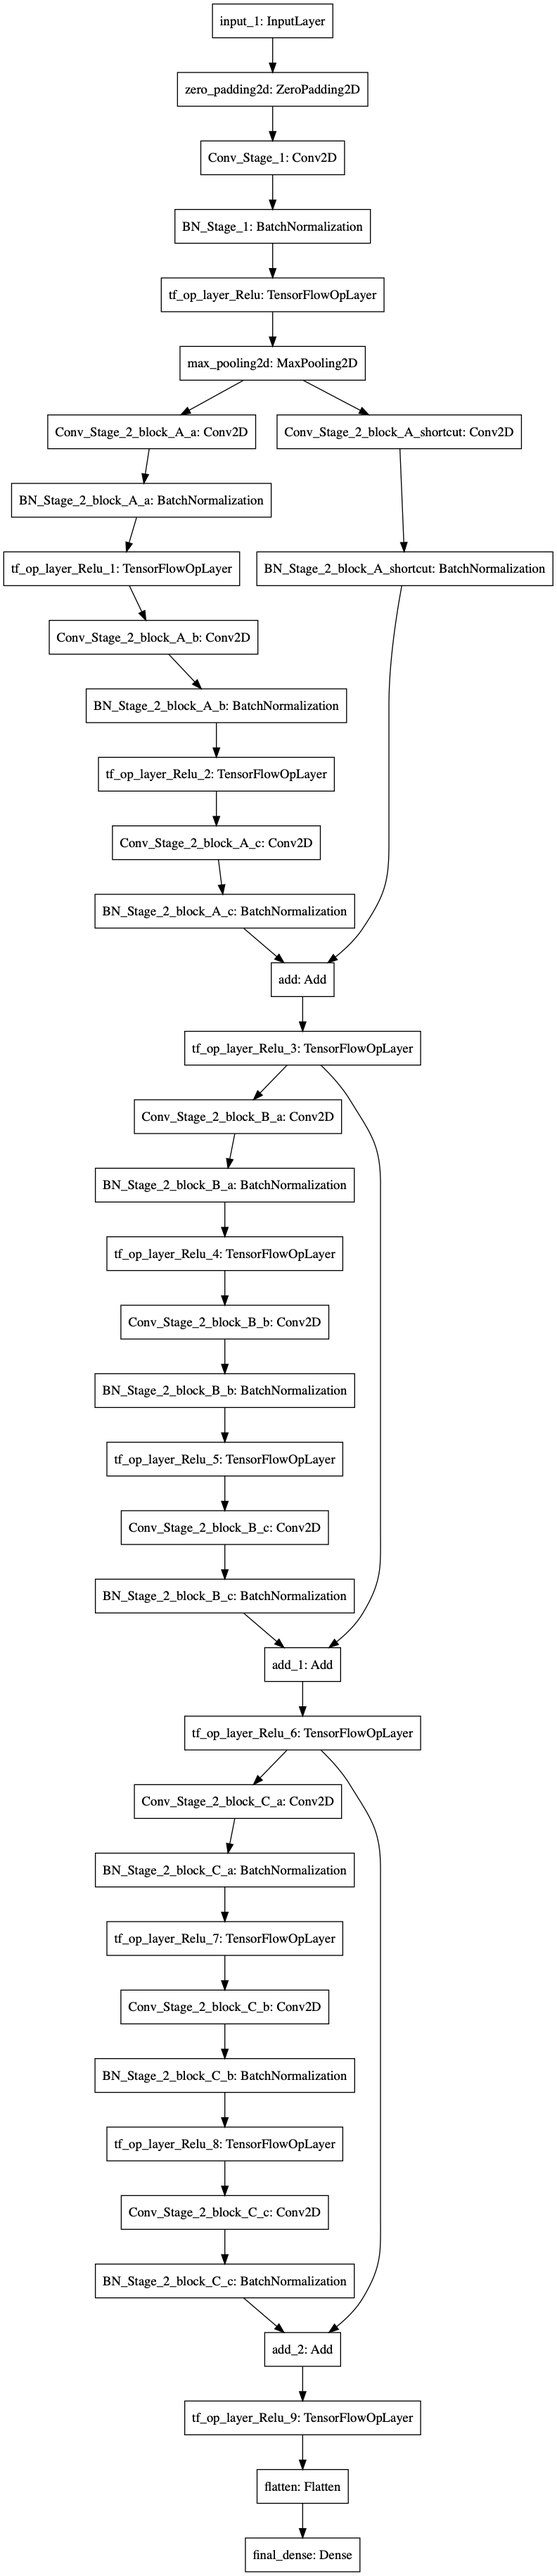
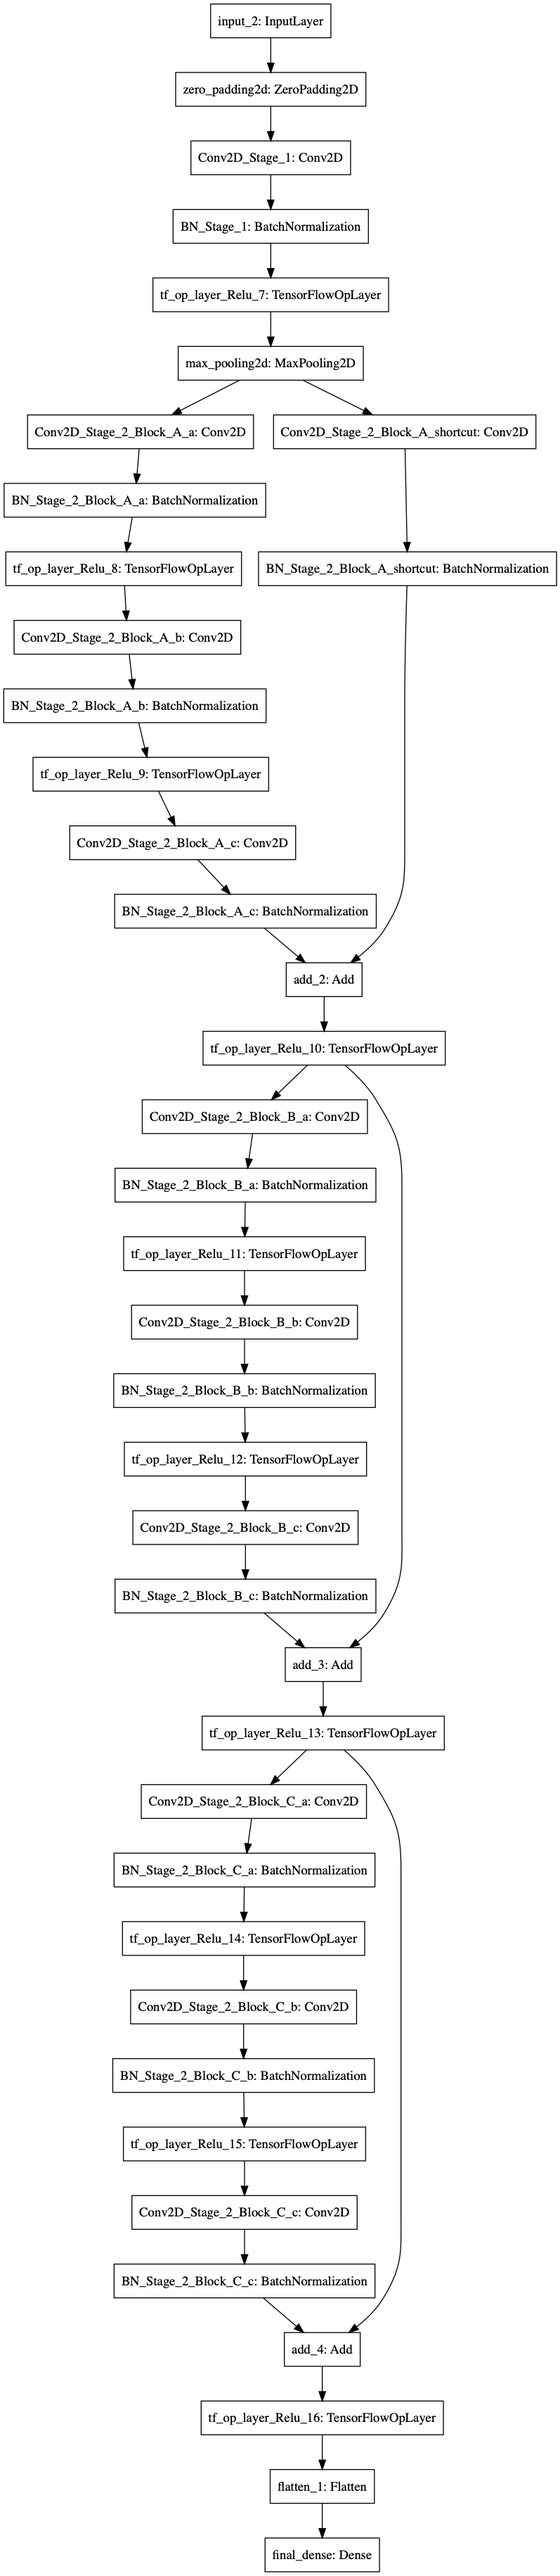
new 1D resnet module

diff --git a/ResNet.py b/ResNet.py
@@ -1,8 +1,9 @@
 import tensorflow as tf
 from tensorflow import keras 
 from tensorflow.keras import layers, Input, Model
-from tensorflow.keras.layers import Conv2D, MaxPooling2D, BatchNormalization
-from tensorflow.keras.layers import Add, ZeroPadding2D, Flatten, Dense
+from tensorflow.keras.layers import ZeroPadding2D, Conv2D, MaxPooling2D
+from tensorflow.keras.layers import Add, Flatten, Dense, BatchNormalization
+from tensorflow.keras.layers import ZeroPadding1D, Conv1D, MaxPooling1D
 from keras.activations import relu
 from segmented_data_builder import tf_Data_Builder
 from tqdm import tqdm
@@ -34,8 +35,116 @@ class ResNet():
       assert kwargs.get('num_classes') is not None
       self.num_classes = kwargs.get('num_classes')
 
+  def identity_block_1D(self, X, filters, kernel_size, stage, block):
+    """ X: input data/tensor
+        filters: list of 3 ints defining number of filters in each Conv1D layer 
+        kernel_size: int defining the kernel_size of the middle Conv1D layer 
+        stage: name of stage of blocks in the total network (a descriptor)
+        block: name of block within stage (a descriptor)
+    """
+    X_shortcut = X
+    F1, F2, F3 = filters
+    conv_name = 'Conv1D_Stage_' + str(stage) + '_Block_' + str(block)
+    BN_name = 'BN1D_Stage_' + str(stage) + '_Block_' + str(block)
 
-  def identity_block(self, X, filters, kernel_size, stage, block):
+    # first block
+    X = Conv1D(filters = F1, kernel_size = 1, strides = 1, padding = 'valid', 
+      name = conv_name + '_a')(X)
+    X = BatchNormalization(axis = -1, name = BN_name + '_a')(X)
+    X = relu(X)
+
+    # middle block 
+    X = Conv1D(filters = F2, kernel_size = kernel_size, strides = 1, padding = 'same', 
+      name = conv_name + '_b')(X)
+    X = BatchNormalization(axis = -1, name = BN_name + '_b')(X)
+    X = relu(X)
+
+    # last block
+    X = Conv1D(filters = F3, kernel_size = 1, strides = 1, padding = 'valid', 
+      name = conv_name + '_c')(X)
+    X = BatchNormalization(axis = -1, name = BN_name + '_c')(X)
+
+    X = Add()([X, X_shortcut])
+    X = relu(X)
+    return X
+
+  def convolutional_block_1D(self, X, filters, kernel_size, stage, block, stride = 2):
+    """ X: input data/tensor
+        filters: list of 3 ints defining number of filters in each Conv1D layer 
+        kernel_size: int defining the kernel_size of the middle Conv1D layer 
+        stage: name of stage of blocks in the total network (a descriptor)
+        block: name of block within stage (a descriptor)
+    """
+    X_shortcut = X
+    F1, F2, F3 = filters
+    conv_name = 'Conv1D_Stage_' + str(stage) + '_Block_' + str(block)
+    BN_name = 'BN1D_Stage_' + str(stage) + '_Block_' + str(block)
+
+    # first block
+    X = Conv1D(filters = F1, kernel_size = 1, strides = stride, padding = 'valid', 
+      name = conv_name + '_a')(X)
+    X = BatchNormalization(axis = -1, name = BN_name + '_a')(X)
+    X = relu(X)
+
+    # middle block 
+    X = Conv1D(filters = F2, kernel_size = kernel_size, strides = 1, padding = 'same', 
+      name = conv_name + '_b')(X)
+    X = BatchNormalization(axis = -1, name = BN_name + '_b')(X)
+    X = relu(X)
+
+    # last block
+    X = Conv1D(filters = F3, kernel_size = 1, strides = 1, padding = 'valid', 
+      name = conv_name + '_c')(X)
+    X = BatchNormalization(axis = -1, name = BN_name + '_c')(X)
+
+    # shortcut path - ensure equal outut dimensions (F3)
+    X_shortcut = Conv1D(filters = F3, kernel_size = 1, strides = stride, padding = 'valid', 
+      name = conv_name + '_shortcut')(X_shortcut)
+    X_shortcut = BatchNormalization(axis = -1, name = BN_name + '_shortcut')(X_shortcut)
+
+    X = Add()([X, X_shortcut])
+    X = relu(X)
+    return X
+
+
+  def ResNet1D(self):
+    """ Main Function of ResNet
+        Puts together structure and depth of model here by stacking identity and convolutional layers 
+        Add more stages/blocks at will 
+    """
+    # X_input = X_input
+    X = ZeroPadding1D(3)(self.X_input)
+
+    # stage 1
+    X = Conv1D(filters = 32, 
+      kernel_size = 7, 
+      strides=2, 
+      name = 'Conv1D_Stage_1')(X)
+    X = BatchNormalization(name = 'BN1D_Stage_1')(X)
+    X = relu(X)
+    X = MaxPooling1D(pool_size = 3, strides = 2)(X)
+
+    # stage 2
+    X = self.convolutional_block_1D(X = X, filters=[32, 32, 126], kernel_size=3, stride=1,
+      stage = 2, block = 'A')
+    X = self.identity_block_1D(X = X, filters = [32, 32, 126], kernel_size = 3, 
+      stage = 2, block = 'B')
+    X = self.identity_block(X = X, filters = [32, 32, 126], kernel_size = 3, 
+      stage = 2, block = 'C')
+
+    if self.trim_end: 
+      return X
+    else:
+      # output layers
+      X = Flatten()(X)
+      X = Dense(units = self.num_classes, activation = 'sigmoid', name = 'final_dense')(X)
+      
+      # create model
+      model = Model(inputs = self.X_input, outputs = X, name='myResNet')
+      keras.utils.plot_model(model, 'ResNet.png')
+      return model
+
+  def identity_block_2D(self, X, filters, kernel_size, stage, block):
     """ X: input data/tensor
         filters: list of 3 ints defining number of filters in each Conv2d layer 
         kernel_size: int defining the kernel_size of the middle Conv2d layer 
@@ -45,8 +154,8 @@ class ResNet():
     X_shortcut = X
     F1, F2, F3 = filters
     ks = (kernel_size, kernel_size)
-    conv_name = 'Conv_Stage_' + str(stage) + '_Block_' + str(block)
-    BN_name = 'BN_Stage_' + str(stage) + '_Block_' + str(block)
+    conv_name = 'Conv2D_Stage_' + str(stage) + '_Block_' + str(block)
+    BN_name = 'BN2D_Stage_' + str(stage) + '_Block_' + str(block)
 
     # first block
     X = Conv2D(filters = F1, kernel_size = (1,1), strides = (1,1), padding = 'valid', 
@@ -69,7 +178,7 @@ class ResNet():
     X = relu(X)
     return X
 
-  def convolutional_block(self, X, filters, kernel_size, stage, block, stride = 2):
+  def convolutional_block_2D(self, X, filters, kernel_size, stage, block, stride = 2):
     """ X: input data/tensor
         filters: list of 3 ints defining number of filters in each Conv2d layer 
         kernel_size: int defining the kernel_size of the middle Conv2d layer 
@@ -79,8 +188,8 @@ class ResNet():
     X_shortcut = X
     F1, F2, F3 = filters
     ks = (kernel_size, kernel_size)
-    conv_name = 'Conv_Stage_' + str(stage) + '_Block_' + str(block)
-    BN_name = 'BN_Stage_' + str(stage) + '_Block_' + str(block)
+    conv_name = 'Conv2D_Stage_' + str(stage) + '_Block_' + str(block)
+    BN_name = 'BN2D_Stage_' + str(stage) + '_Block_' + str(block)
     s = stride
 
     # first block
@@ -109,7 +218,7 @@ class ResNet():
     X = relu(X)
     return X
 
-  def resnet(self):
+  def ResNet2D(self):
     """ Main Function of ResNet
         Puts together structure and depth of model here by stacking identity and convolutional layers 
         Add more stages/blocks at will 
@@ -121,17 +230,17 @@ class ResNet():
     X = Conv2D(filters = 64, 
       kernel_size = (7, 7), 
       strides=(2, 2), 
-      name = 'Conv_Stage_1')(X)
-    X = BatchNormalization(name = 'BN_Stage_1')(X)
+      name = 'Conv2D_Stage_1')(X)
+    X = BatchNormalization(name = 'BN2D_Stage_1')(X)
     X = relu(X)
     X = MaxPooling2D(pool_size = (3, 3), strides = (2, 2))(X)
 
     # stage 2
-    X = self.convolutional_block(X = X, filters=[64, 64, 256], kernel_size=3, stride=1,
+    X = self.convolutional_block_2D(X = X, filters=[64, 64, 256], kernel_size=3, stride=1,
       stage = 2, block = 'A')
-    X = self.identity_block(X = X, filters = [64, 64, 256], kernel_size = 3, 
+    X = self.identity_block_2D(X = X, filters = [64, 64, 256], kernel_size = 3, 
       stage = 2, block = 'B')
-    X = self.identity_block(X = X, filters = [64, 64, 256], kernel_size = 3, 
+    X = self.identity_block_2D(X = X, filters = [64, 64, 256], kernel_size = 3, 
       stage = 2, block = 'C')
 
     if self.trim_end: 
@@ -160,8 +269,11 @@ if __name__ == '__main__':
     batch_size = 32)
   data_builder.fit_multi_hot_encoder(
     class_labels = np.array([[170],[1454],[709],[1057],[1308]]))
+  
+  resnet1D = ResNet(input_shape = (128,1), num_classes = 5)
+  resnet1D.ResNet1D()
 
-  resnet = ResNet(input_shape = (32,32,1), num_classes = 5)
-  model = resnet.resnet()
+  resnet2D = ResNet(input_shape = (32,32,1), num_classes = 5)
+  resnet2D.ResNet2D()
 
 

diff --git a/multi-input.py b/multi-input.py
@@ -33,11 +33,14 @@ class Multi_Modal():
       name = 'audio_Inputs')
     
     # create ResNet portion of multi-input model
-    resnet_model = ResNet(trim_front = True, trim_end = True, X_input = image_inputs)
-    x_image = resnet_model.resnet()
+    resnet2D = ResNet(trim_front = True, trim_end = True, X_input = image_inputs)
+    x_image = resnet2D.ResNet2D()
 
     # send audio to 1D conv layers - future updates 
-    x_audio = self.convAudioNet(audio_inputs)
+    resnet1D = ResNet(trim_front = True, trim_end = True, X_input = audio_inputs)
+    x_audio = resnet1D.ResNet1D()
+
+    # x_audio = self.convAudioNet(audio_inputs)
 
     # flatten for dense layer
     x_image = Flatten()(x_image)
